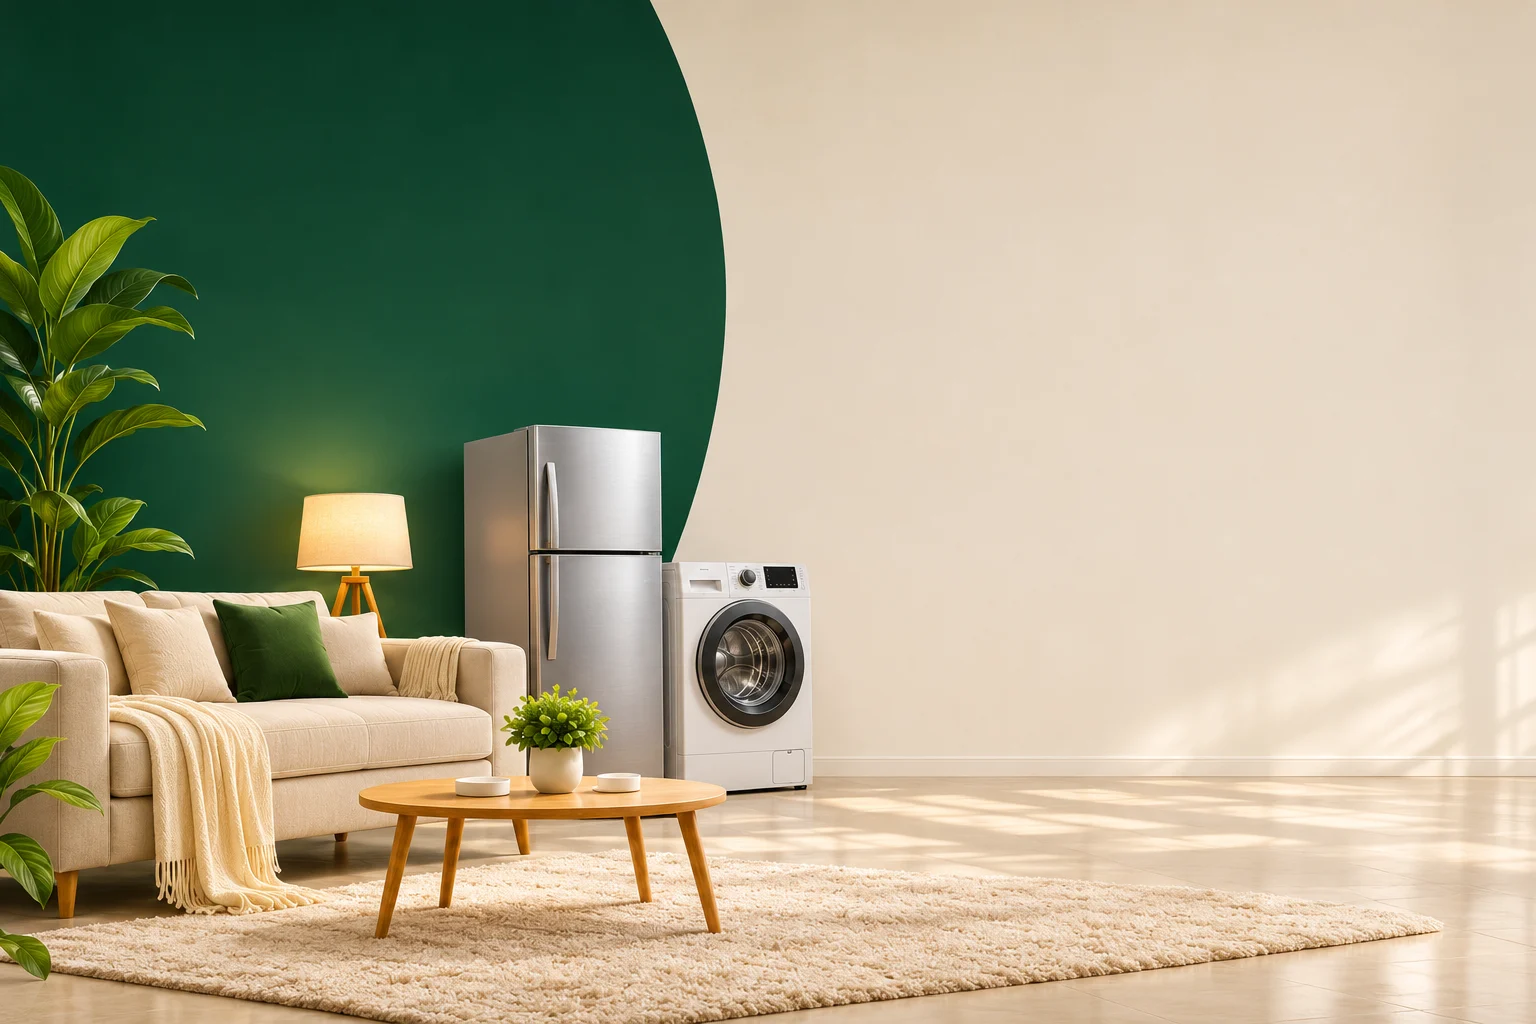
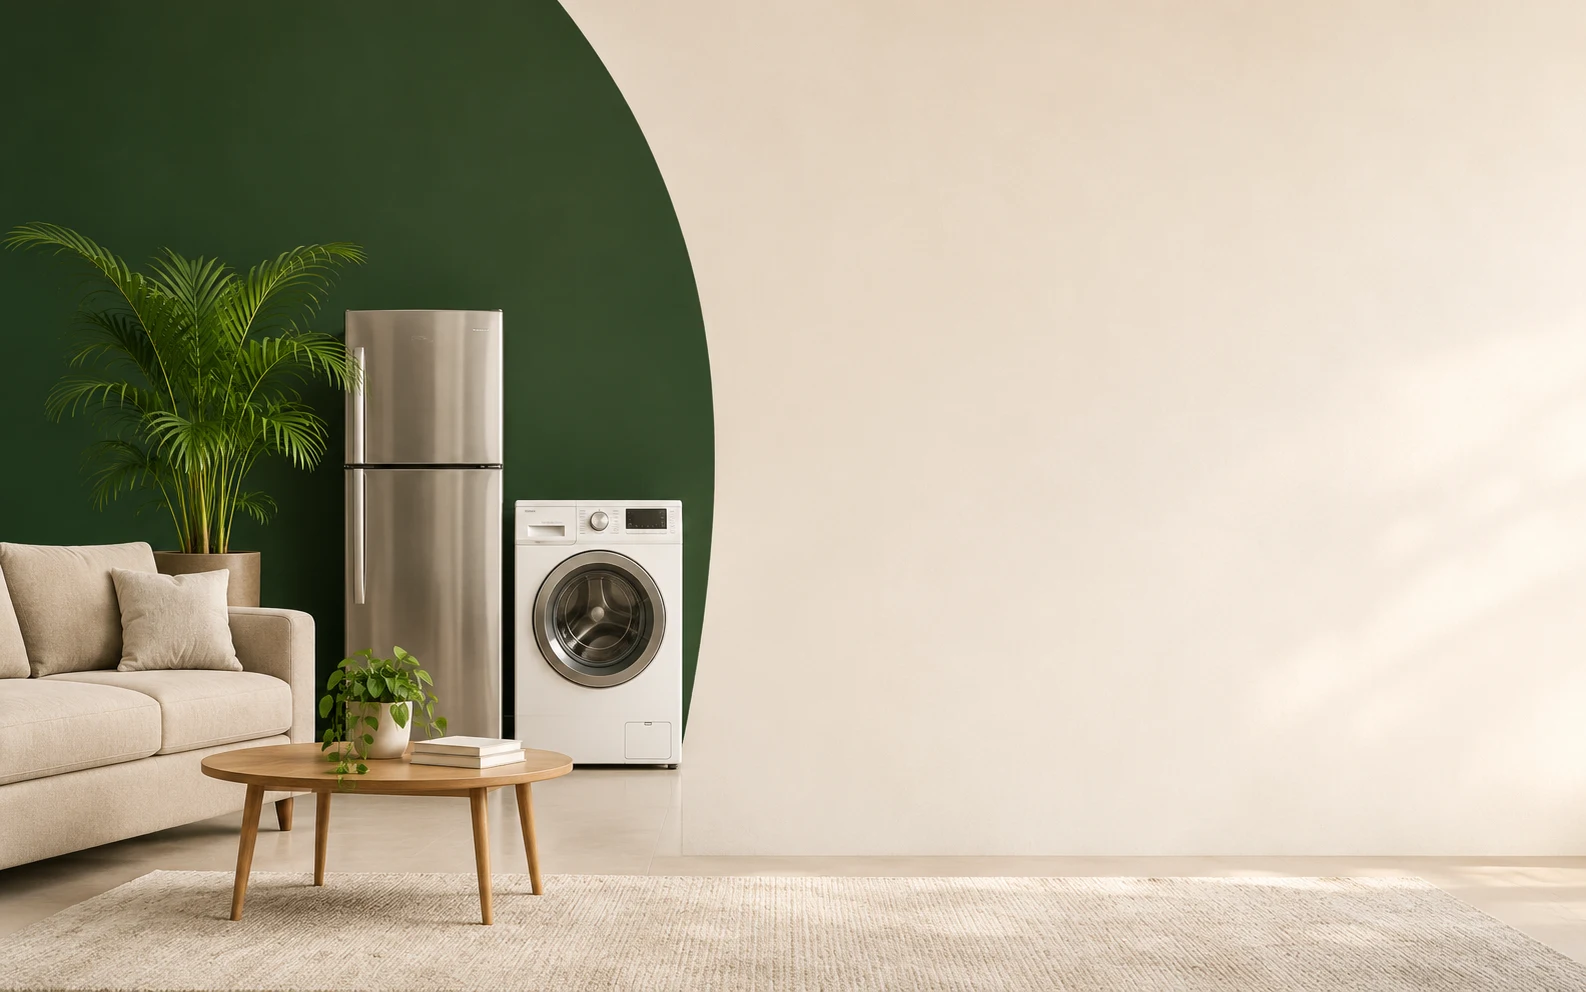
login page

diff --git a/components/auth-modal.jsx b/components/auth-modal.jsx
@@ -59,7 +59,7 @@ export function AuthModal({ open, onClose, returnFocusRef }) {
       <div className="auth-modal-shell">
         <div className="auth-background-layer" aria-hidden="true">
           <Image
-            src="/images/auth-modal-backdrop.webp"
+            src="/images/auth-modal-backdrop-v2.webp"
             alt=""
             fill
             priority
